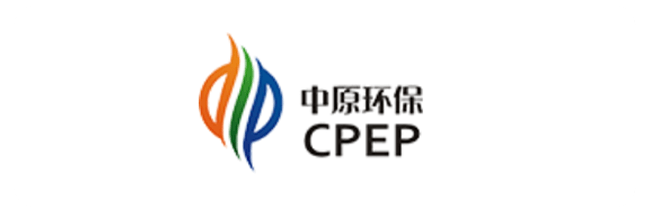
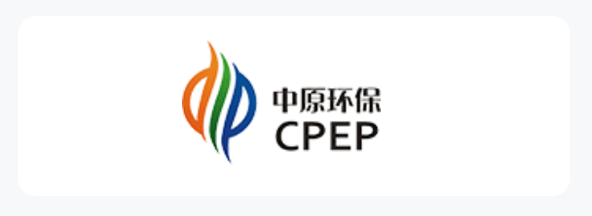
修改 案例图片

Changed region(s): [[0.3041, 0.1415, 0.6689, 0.8208]]

diff --git a/src/components/styles/LinkByColumn.vue b/src/components/styles/LinkByColumn.vue
@@ -8,15 +8,12 @@
                 class="item"
                 :class="{ showHover: !showDecs }"
                 @click="openPage(iIndex)"
+                :style="{
+                    width: cloumnWidth + 'px',
+                    height: cloumnHight + 'px',
+                }"
             >
-                <img
-                    :src="i"
-                    alt="案例介绍"
-                    :style="{
-                        width: cloumnWidth + 'px',
-                        height: cloumnHight + 'px',
-                    }"
-                />
+                <img :src="i" alt="案例介绍" />
             </div>
         </div>
 
@@ -35,11 +32,11 @@ export default {
         // },
         cloumnWidth: {
             type: String,
-            default: "0",
+            default: "294",
         },
         cloumnHight: {
             type: String,
-            default: "90",
+            default: "108",
         },
         linkList: {
             type: Array,
@@ -75,13 +72,16 @@ export default {
 <style lang="scss" scoped>
 .link-box {
     padding-bottom: 60px;
+    font-size: 0;
     .cont {
-        display: flex;
-        flex-wrap: wrap;
+        // display: flex;
+        // flex-wrap: wrap;
+        display: inline-block;
     }
 
     .item {
-        flex: 1;
+        // flex: 1;
+        display: inline-block;
         margin-bottom: 30px;
         transition: transform 0.3s;
     }
@@ -90,6 +90,11 @@ export default {
             transform: scale(1.1);
             -webkit-transform: scale(1.1);
         }
+    }
+
+    img {
+        width: 100%;
+        // height: 100%;
     }
 
     .desc {

diff --git a/src/views/home/HomePage.vue b/src/views/home/HomePage.vue
@@ -88,7 +88,6 @@
             <h2 class="title title-1">经典案例介绍</h2>
             <div class="cont-parallel">
                 <LinkByColumn
-                    cloumnWidth="cloumnWidth"
                     :linkList="linkList"
                 ></LinkByColumn>
             </div>
@@ -194,7 +193,7 @@ export default {
                 .map((i, iIndex) =>
                     require(`@/assets/links/link${iIndex}.png`)
                 ),
-            cloumnWidth: 276,
+            // cloumnWidth: 276,
             // scrollElemnt: [
             //     {
             //         id: "scorll0",
